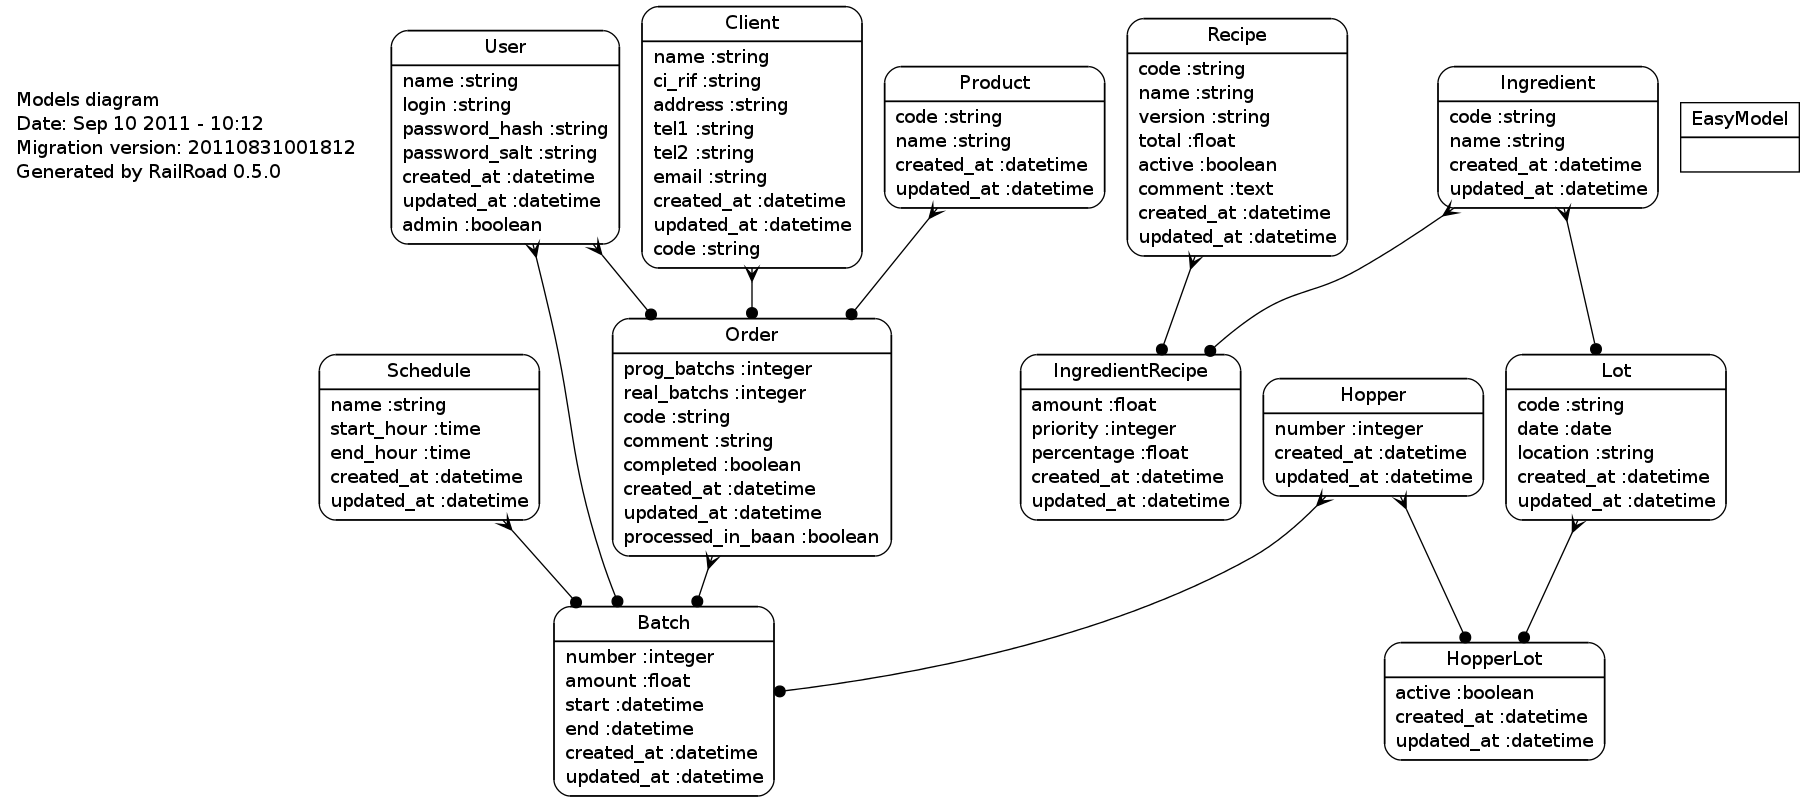
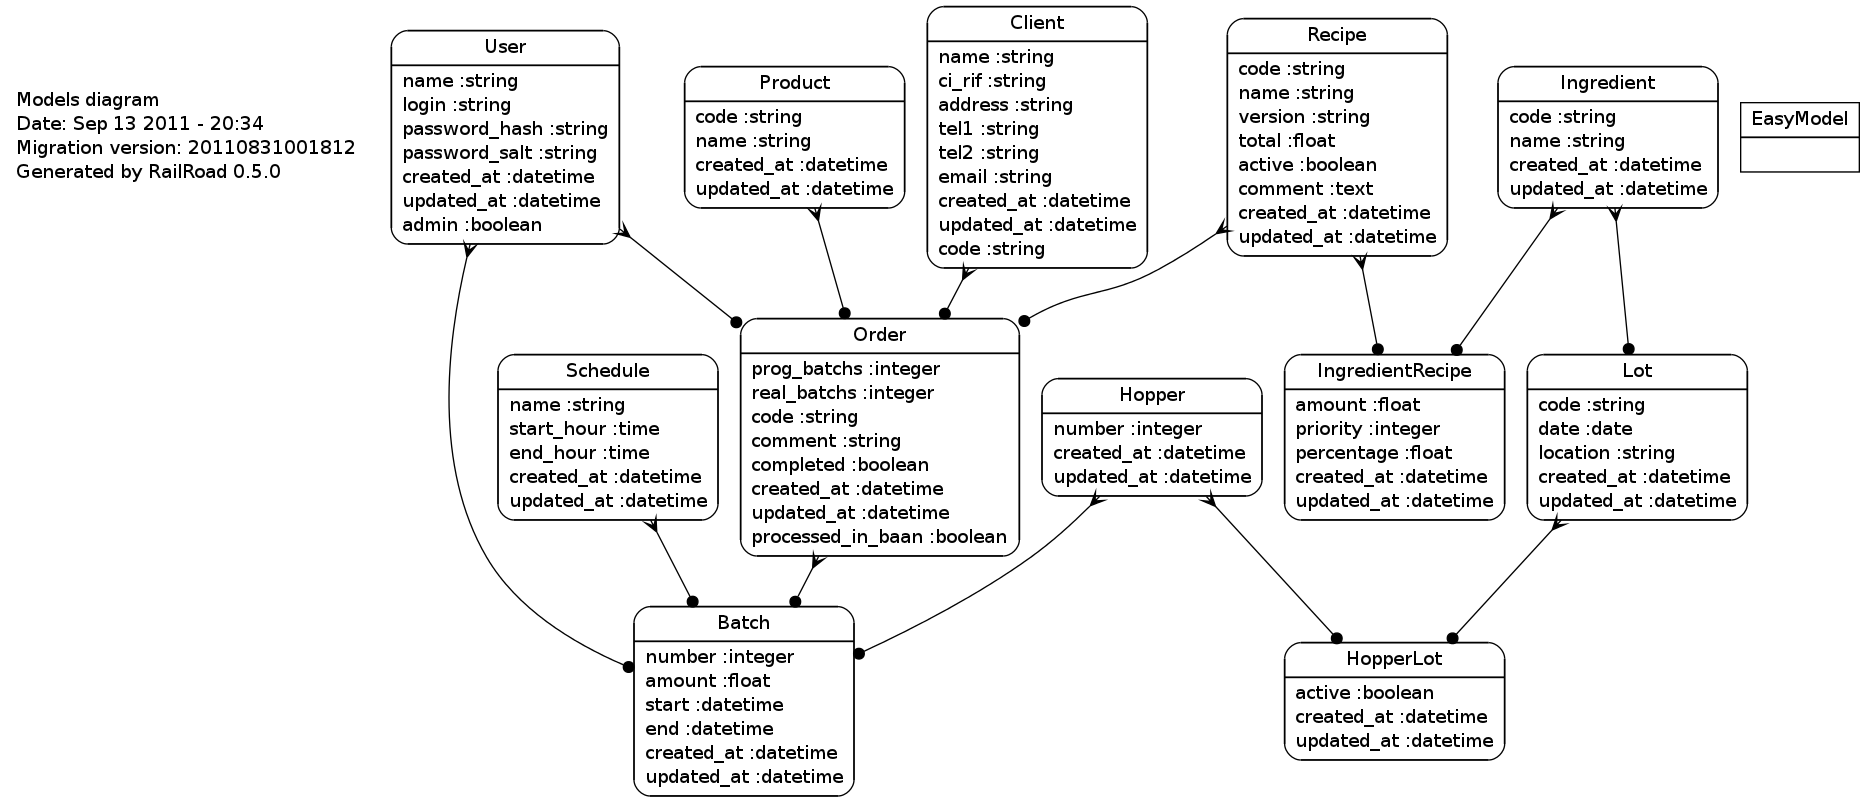
Added total field to orders. Updated relationship between orders and recipes. Fixed minor issues with views

diff --git a/public/stylesheets/application.css b/public/stylesheets/application.css
@@ -186,6 +186,7 @@ h5 {
   text-align: center;
 }
 
+/* Reports */
 #report_title {
   cursor: pointer;
 }
@@ -209,4 +210,8 @@ h5 {
 
 .report-details {
     padding-bottom: 30px;
+}
+
+.report-details label .normal {
+    width: 100px;
 }

diff --git a/config/routes.rb b/config/routes.rb
@@ -1,22 +1,21 @@
 ActionController::Routing::Routes.draw do |map|
 
-  root :to => "sessions#index"
+  match 'ingredients/search' => "ingredients#search", :via => :get, :as => 'ingredient_search'
+  match 'ingredients/catalog' => "ingredients#catalog", :via => :get, :as => 'ingredient_catalog'
+  match 'ingredients/select' => "ingredients#select", :via => :get, :as => 'ingredient_select'
+  match 'recipes/import' => "recipes#import", :via => :get, :as => 'recipe_import'
+  match 'recipes/upload' => "recipes#upload", :via => :get, :as => 'recipe_upload'
+  match 'reports/index' => "reports#index", :via => :get, :as => "reports"
+  match 'reports/recipes' => "reports#recipes", :via => :get, :as => "recipes_report"
+  match 'reports/order_details' => "reports#order_details", :via => :get, :as => "order_details_report"
+  match 'sessions/not_implemented' => "sessions#not_implemented", :via => :get, :as => "not_implemented"
 
-  #map.session_error 'session/error', :controller => 'session', :action => 'error'
-  map.ingredient_search 'ingredients/search', :controller => "ingredients", :action => "search"
-  map.ingredient_catalog 'ingredients/catalog', :controller => "ingredients", :action => "catalog"
-  map.ingredient_select 'ingredients/select', :controller => "ingredients", :action => "select"
-  map.recipe_import 'recipes/import', :controller => "recipes", :action => "import"
-  map.recipe_upload 'recipes/upload', :controller => "recipes", :action => "upload"
-  map.reports 'reports/index', :controller => "reports", :action => "index"
-  map.recipes_report 'reports/recipes', :controller => "reports", :action => "recipes"
-  map.not_implemented 'sessions/not_implemented', :controller => "sessions", :action => "not_implemented"
-  map.resources :sessions, :users, :ingredients, :clients, :hoppers, :products, :orders, :lots, :schedules, :batches
-  map.resources :recipes do |recipes|
-    recipes.resources :ingredients_recipes
+  resources :sessions, :users, :ingredients, :clients, :hoppers, :products, :orders, :lots, :schedules, :batches
+  resources :recipes do
+    resources :ingredients_recipes
   end
 
+  root :to => "sessions#index"
   map.connect ':controller/:action/:id'
   map.connect ':controller/:action/:id.:format'
-
 end

diff --git a/db/schema.rb b/db/schema.rb
@@ -10,7 +10,7 @@
 #
 # It's strongly recommended to check this file into your version control system.
 
-ActiveRecord::Schema.define(:version => 20110831001812) do
+ActiveRecord::Schema.define(:version => 20110913235049) do
 
   create_table "batches", :force => true do |t|
     t.integer  "order_id"
@@ -103,6 +103,7 @@ ActiveRecord::Schema.define(:version => 20110831001812) do
     t.datetime "created_at"
     t.datetime "updated_at"
     t.boolean  "processed_in_baan", :default => false
+    t.float    "total"
   end
 
   add_index "orders", ["client_id"], :name => "fk_orders_client_id"

diff --git a/app/models/order.rb b/app/models/order.rb
@@ -8,12 +8,14 @@ class Order < ActiveRecord::Base
   validates_presence_of :recipe_id, :user_id
   validates_uniqueness_of :code
   validates_numericality_of :prog_batchs, :real_batchs, :only_integer => 0, :greater_than_or_equal_to => 0
+  validates_numericality_of :total
   validates_associated :recipe, :client, :user
 
   before_validation :validates_real_batchs
 
   def validates_real_batchs
     self.real_batchs = 0 if self.real_batchs.nil?
+    self.total = 0 if self.total.nil?
     return true
   end
 end

diff --git a/app/models/recipe.rb b/app/models/recipe.rb
@@ -1,5 +1,6 @@
 class Recipe < ActiveRecord::Base
   has_many :ingredient_recipe
+  has_many :order
 
   validates_presence_of :name, :code
   validates_uniqueness_of :code
